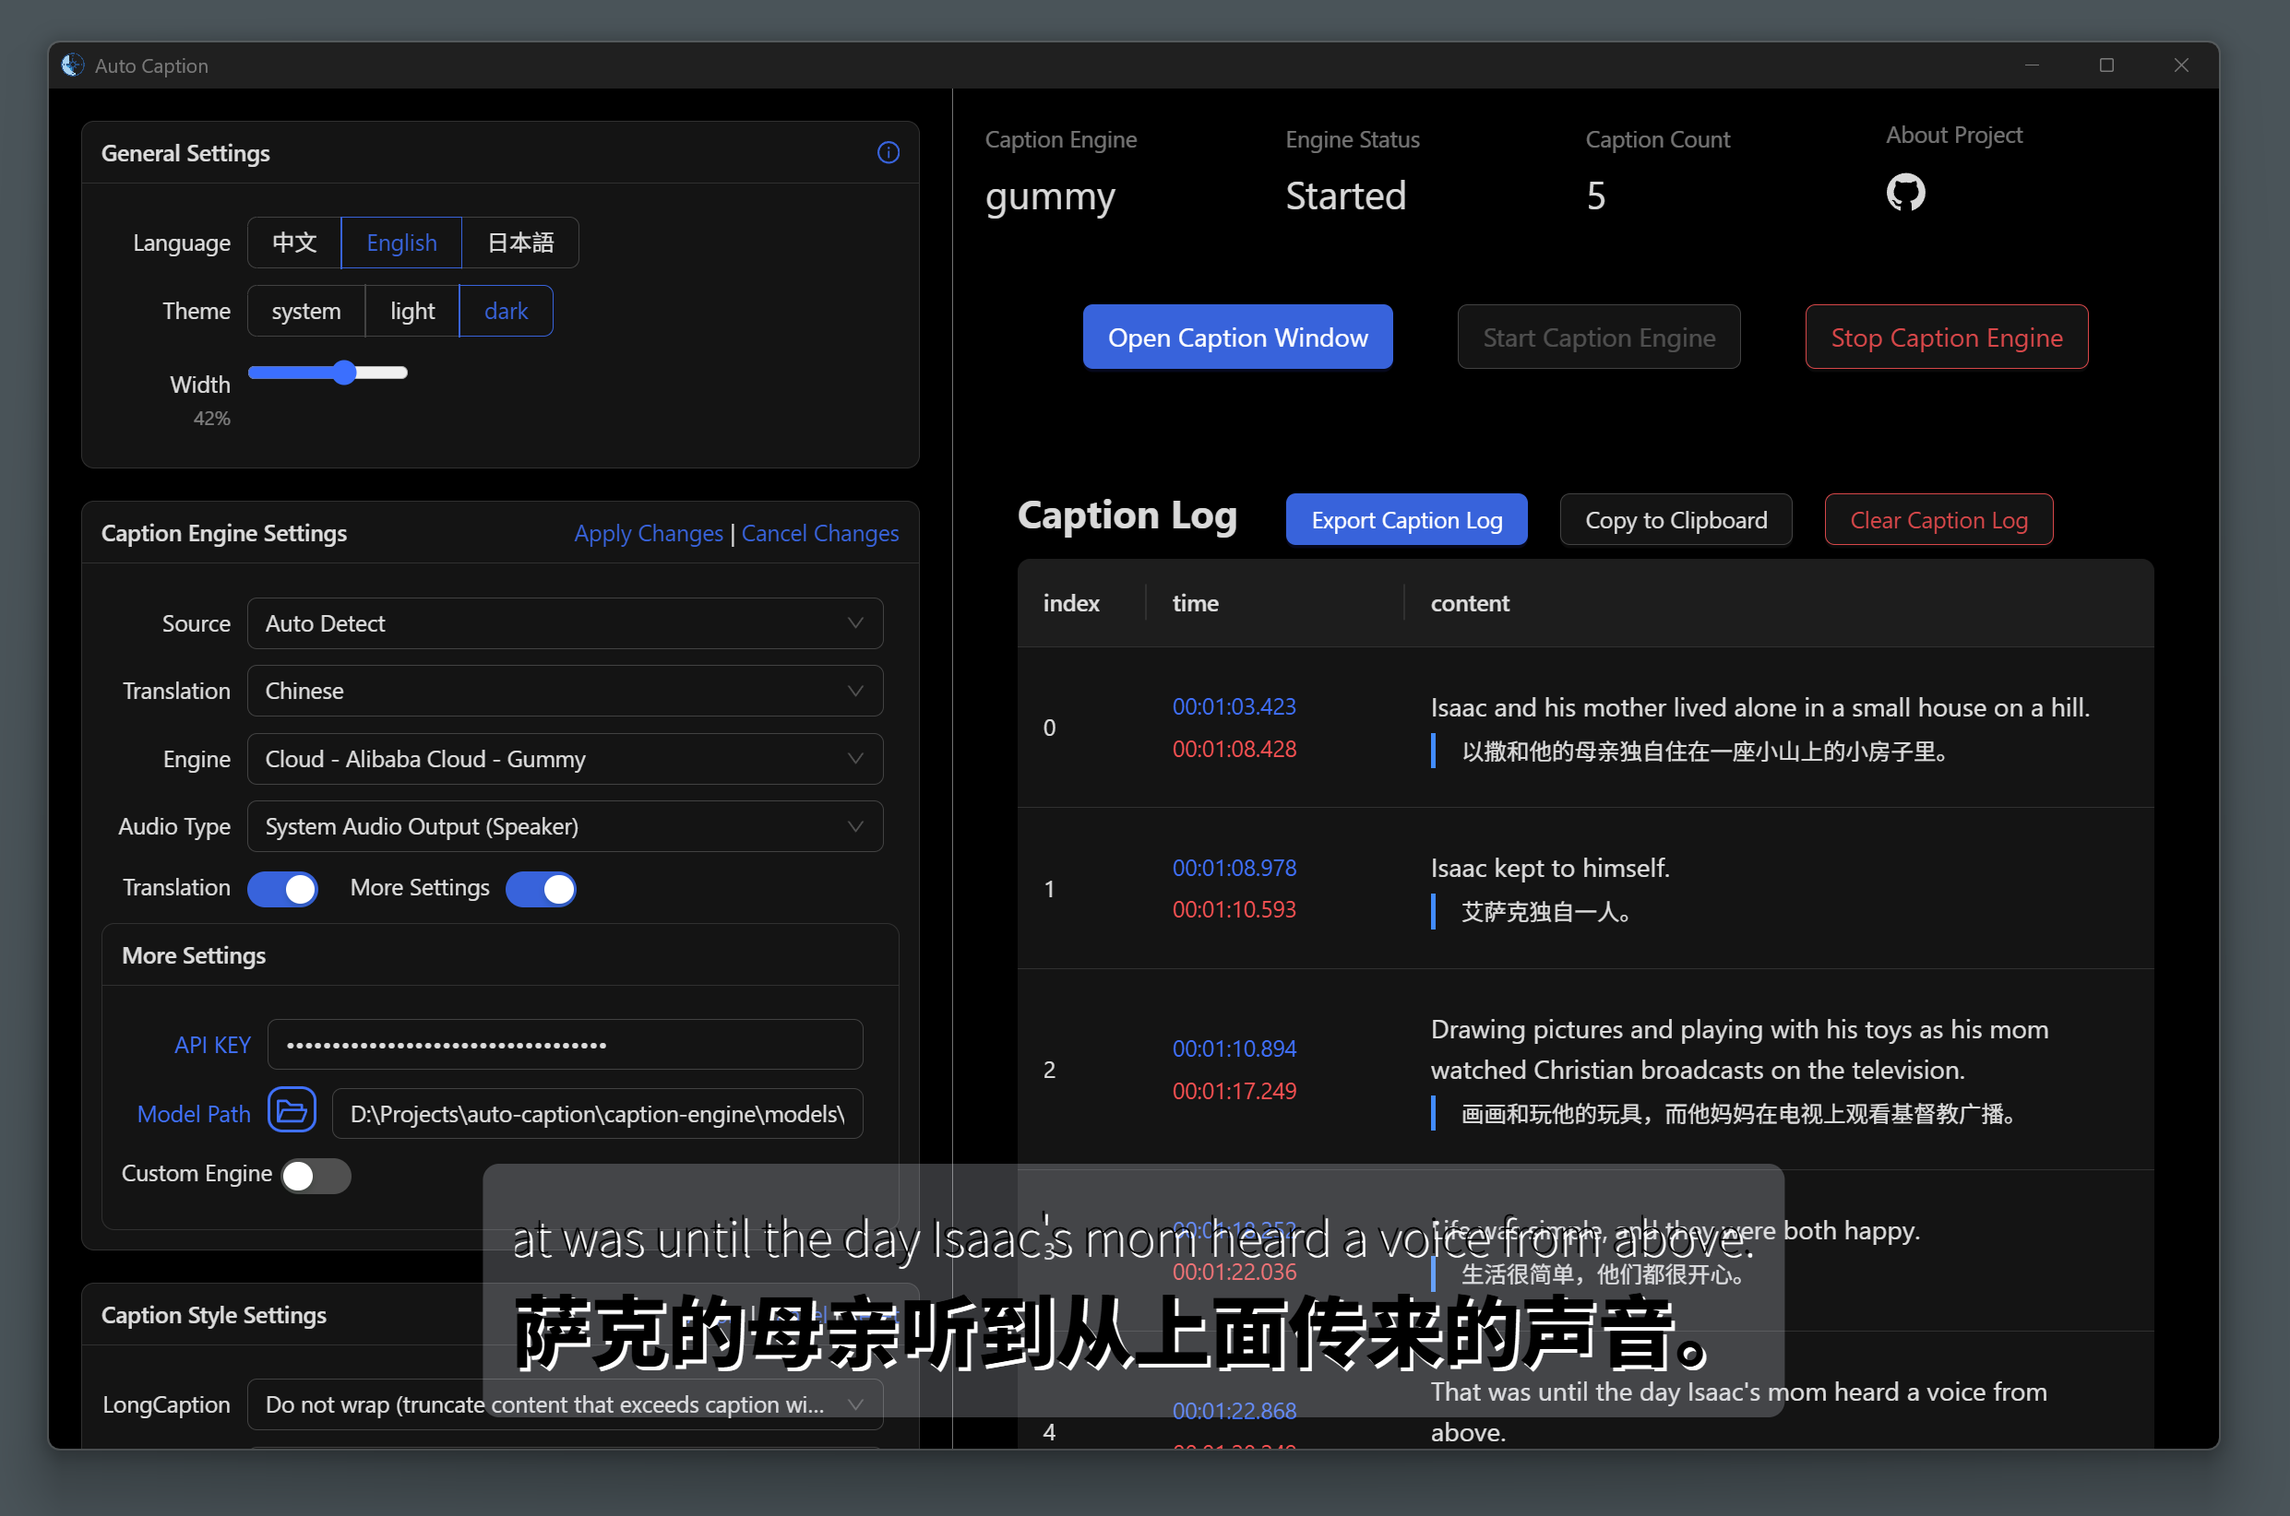
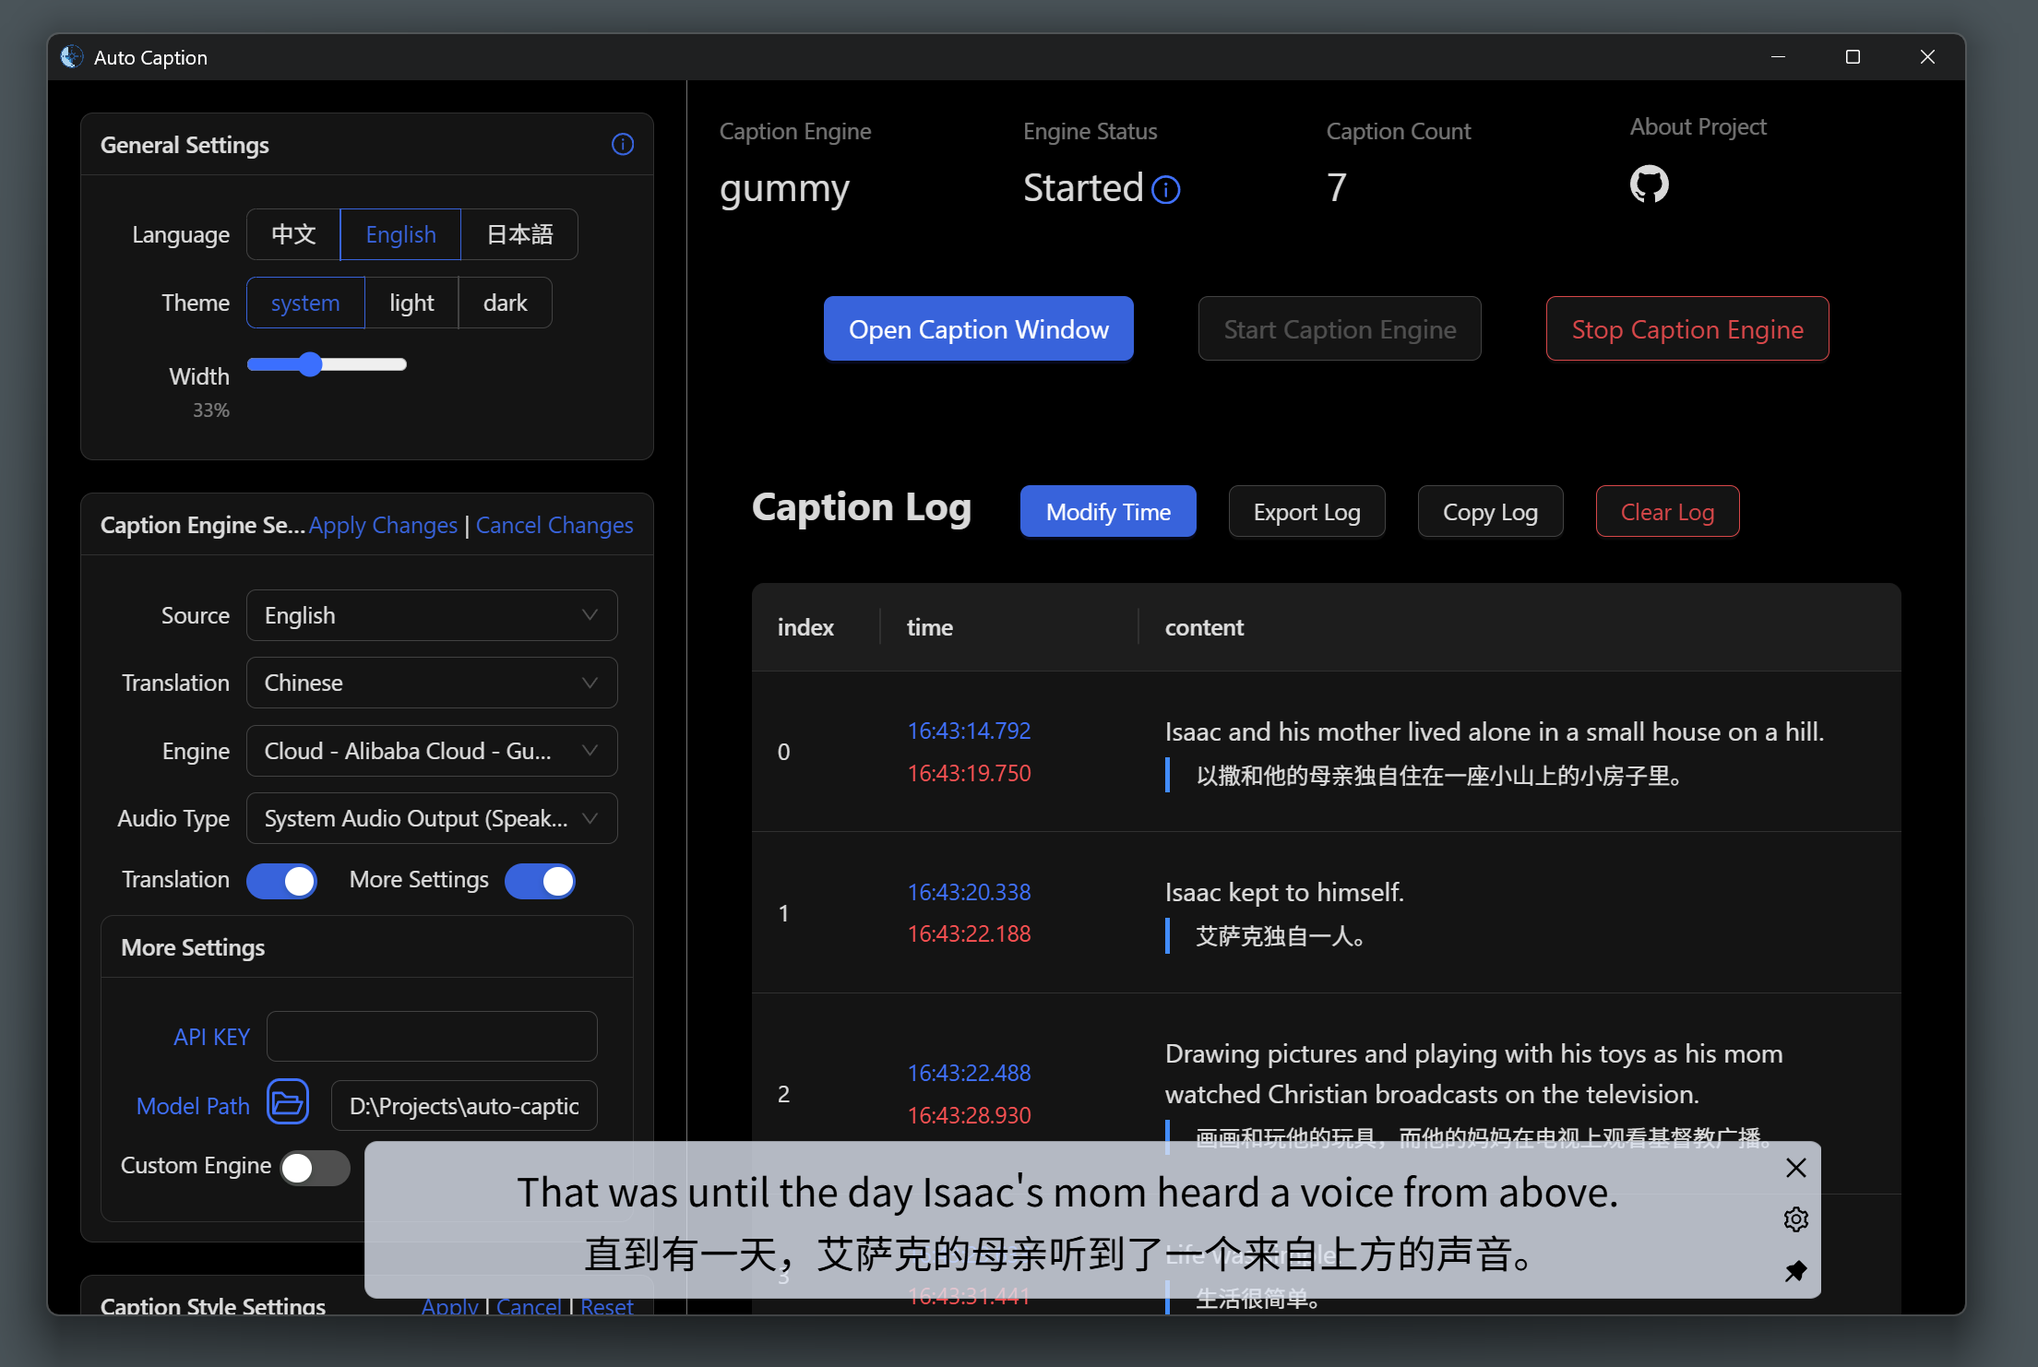
release v0.5.0
- 更新了发行说明和用户手册
- 优化了界面显示和功能
- 过滤 Gummy 字幕引擎输出的不完整字幕

diff --git a/src/renderer/src/components/EngineStatus.vue b/src/renderer/src/components/EngineStatus.vue
@@ -36,7 +36,11 @@
           <a-statistic
             :title="$t('status.status')"
             :value="engineEnabled?$t('status.started'):$t('status.stopped')"
-          />
+          >
+            <template #suffix v-if="engineEnabled">
+              <InfoCircleOutlined style="font-size:18px;color:#1677ff"/>
+            </template>
+          </a-statistic>
         </a-col>  
       </a-popover>      
       <a-col :span="6">
@@ -73,7 +77,7 @@
       <p class="about-desc">{{ $t('status.about.desc') }}</p>
       <a-divider />
       <div class="about-info">
-        <p><b>{{ $t('status.about.version') }}</b><a-tag color="green">v0.4.0</a-tag></p>
+        <p><b>{{ $t('status.about.version') }}</b><a-tag color="green">v0.5.0</a-tag></p>
         <p>
           <b>{{ $t('status.about.author') }}</b>
           <a
@@ -119,7 +123,7 @@ import { ref } from 'vue'
 import { storeToRefs } from 'pinia'
 import { useCaptionLogStore } from '@renderer/stores/captionLog'
 import { useEngineControlStore } from '@renderer/stores/engineControl'
-import { GithubOutlined } from '@ant-design/icons-vue';
+import { GithubOutlined, InfoCircleOutlined } from '@ant-design/icons-vue';
 
 const showAbout = ref(false)
 

diff --git a/src/renderer/src/components/EngineControl.vue b/src/renderer/src/components/EngineControl.vue
@@ -127,7 +127,7 @@ const { t } = useI18n()
 const showMore = ref(false)
 
 const engineControl = useEngineControlStore()
-const { platform, captionEngine, audioType, changeSignal } = storeToRefs(engineControl)
+const { captionEngine, audioType, changeSignal } = storeToRefs(engineControl)
 
 const currentSourceLang = ref('auto')
 const currentTargetLang = ref('zh')
@@ -230,7 +230,7 @@ watch(currentEngine, (val) => {
 }
 
 .input-folder>span {
-  padding: 0 4px;
+  padding: 0 2px;
   border: 2px solid #1677ff;
   color: #1677ff;
   border-radius: 30%;

diff --git a/src/main/utils/CaptionEngine.ts b/src/main/utils/CaptionEngine.ts
@@ -108,7 +108,10 @@ export class CaptionEngine {
         if (line.trim()) {
           try {
             const caption = JSON.parse(line);
-            allConfig.updateCaptionLog(caption);
+            if(caption.index === undefined) {
+              console.log('[INFO] Engine Bad Output:', caption);
+            }
+            else allConfig.updateCaptionLog(caption);
           } catch (e) {
             controlWindow.sendErrorMessage(i18n('engine.output.parse.error') + e)
             console.error('[ERROR] Error parsing JSON:', e);

diff --git a/src/renderer/src/i18n/lang/ja.ts b/src/renderer/src/i18n/lang/ja.ts
@@ -116,7 +116,7 @@ export default {
       "projLink": "プロジェクトリンク",
       "manual": "ユーザーマニュアル",
       "engineDoc": "字幕エンジンマニュアル",
-      "date": "2025 年 7 月 11 日"
+      "date": "2025 年 7 月 15 日"
     }
   },
   log: {

diff --git a/src/renderer/src/i18n/lang/zh.ts b/src/renderer/src/i18n/lang/zh.ts
@@ -116,7 +116,7 @@ export default {
       "projLink": "项目链接",
       "manual": "用户手册",
       "engineDoc": "字幕引擎手册",
-      "date": "2025 年 7 月 11 日"
+      "date": "2025 年 7 月 15 日"
     }
   },
   log: {

diff --git a/src/renderer/src/i18n/lang/en.ts b/src/renderer/src/i18n/lang/en.ts
@@ -116,7 +116,7 @@ export default {
       "projLink": "Project Link",
       "manual": "User Manual",
       "engineDoc": "Caption Engine Manual",
-      "date": "July 11, 2026"
+      "date": "July 15, 2025"
     }
   },
   log: {

diff --git a/src/renderer/src/stores/engineControl.ts b/src/renderer/src/stores/engineControl.ts
@@ -1,4 +1,4 @@
-import { ref, watch } from 'vue'
+import { ref } from 'vue'
 import { defineStore } from 'pinia'
 
 import { notification } from 'ant-design-vue'

diff --git a/docs/user-manual/en.md b/docs/user-manual/en.md
@@ -1,14 +1,21 @@
 # Auto Caption User Manual
 
-Corresponding Version: v0.4.0
+Corresponding Version: v0.5.0
 
 ## Software Introduction
 
 Auto Caption is a cross-platform caption display software that can real-time capture system audio input (recording) or output (playback) streaming data and use an audio-to-text model to generate captions for the corresponding audio. The default caption engine provided by the software (using Alibaba Cloud Gummy model) supports recognition and translation in nine languages (Chinese, English, Japanese, Korean, German, French, Russian, Spanish, Italian).
 
-Currently, the default caption engine of the software only has full functionality on Windows and macOS platforms. Additional configuration is required to capture system audio output on macOS.
+The default caption engine currently has full functionality on Windows, macOS, and Linux platforms. Additional configuration is required to capture system audio output on macOS.
 
-On Linux platforms, it can only generate captions for audio input (microphone), and currently does not support generating captions for audio output (playback).
+The following operating system versions have been tested and confirmed to work properly. The software cannot guarantee normal operation on untested OS versions.
+
+| OS Version         | Architecture | Audio Input Capture | Audio Output Capture |
+| ------------------ | ------------ | ------------------- | -------------------- |
+| Windows 11 24H2    | x64          | ✅                   | ✅                    |
+| macOS Sequoia 15.5 | arm64        | ✅ Additional config required  | ✅          |
+| Ubuntu 24.04.2     | x64          | ✅                   | ✅                    |
+| Kali Linux 2022.3  | x64          | ✅                   | ✅                    |
 
 ![](../../assets/media/main_en.png)
 
@@ -63,26 +70,26 @@ Now the caption engine can capture system audio output and generate captions.
 
 ## Getting System Audio Output on Linux
 
-Execute the following commands to install `pulseaudio` and `pavucontrol`:
-
-```bash
-# For Debian or Ubuntu, etc.
-sudo apt install pulseaudio pavucontrol
-# For CentOS, etc.
-sudo yum install pulseaudio pavucontrol
-```
-
-Then execute:
+First execute in the terminal:
 
 ```bash
 pactl list short sources
 ```
 
-If you see output similar to the following, the configuration was successful:
+If you see output similar to the following, no additional configuration is needed:
 
 ```bash
 220     alsa_output.pci-0000_02_02.0.3.analog-stereo.monitor    PipeWire        s16le 2ch 48000Hz       SUSPENDED
 221     alsa_input.pci-0000_02_02.0.3.analog-stereo     PipeWire        s16le 2ch 48000Hz       SUSPENDED
+```
+
+Otherwise, install `pulseaudio` and `pavucontrol` using the following commands:
+
+```bash
+# For Debian/Ubuntu etc.
+sudo apt install pulseaudio pavucontrol
+# For CentOS etc.
+sudo yum install pulseaudio pavucontrol
 ```
 
 ## Software Usage
@@ -103,7 +110,7 @@ The following image shows the caption display window, which displays the latest 
 
 ### Exporting Caption Records
 
-In the caption control window, you can see the records of all collected captions. Click the "Export Caption Records" button to export the caption records as a JSON file.
+In the caption control window, you can see the records of all collected captions. Click the "Export Log" button to export the caption records as a JSON or SRT file.
 
 ## Caption Engine
 

diff --git a/docs/user-manual/zh.md b/docs/user-manual/zh.md
@@ -1,14 +1,21 @@
 # Auto Caption 用户手册
 
-对应版本：v0.4.0
+对应版本：v0.5.0
 
 ## 软件简介
 
 Auto Caption 是一个跨平台的字幕显示软件，能够实时获取系统音频输入（录音）或输出（播放声音）的流式数据，并调用音频转文字的模型生成对应音频的字幕。软件提供的默认字幕引擎（使用阿里云 Gummy 模型）支持九种语言（中、英、日、韩、德、法、俄、西、意）的识别与翻译。
 
-目前软件默认字幕引擎只有在 Windows 和 macOS 平台下才拥有完整功能，在 macOS 要获取系统音频输出需要额外配置。
+目前软件默认字幕引擎在 Windows、 macOS 和 Linux 平台下均拥有完整功能，在 macOS 要获取系统音频输出需要额外配置。
 
-在 Linux 平台下只能生成音频输入（麦克风）的字幕，暂不支持音频输出（播放声音）的字幕生成。
+测试过可正常运行的操作系统信息如下，软件不能保证在非下列版本的操作系统上正常运行。
+
+| 操作系统版本        | 处理器架构 | 获取系统音频输入 | 获取系统音频输出 |
+| ------------------ | ---------- | ---------------- | ---------------- |
+| Windows 11 24H2    | x64        | ✅                | ✅                |
+| macOS Sequoia 15.5 | arm64      | ✅需要额外配置    | ✅                |
+| Ubuntu 24.04.2     | x64        | ✅    | ✅                |
+| Kali Linux 2022.3     | x64        | ✅    | ✅                |
 
 ![](../../assets/media/main_zh.png)
 
@@ -63,26 +70,26 @@ brew install blackhole-64ch
 
 ## Linux 获取系统音频输出
 
-执行以下命令安装 `pulseaudio` 和 `pavucontrol`：
+首先在控制台执行：
+
+```bash
+pactl list short sources
+```
+
+如果有以下类似的输出内容则无需额外配置：
+
+```bash
+220     alsa_output.pci-0000_02_02.0.3.analog-stereo.monitor    PipeWire        s16le 2ch 48000Hz       SUSPENDED
+221     alsa_input.pci-0000_02_02.0.3.analog-stereo     PipeWire        s16le 2ch 48000Hz       SUSPENDED
+```
+
+否则，执行以下命令安装 `pulseaudio` 和 `pavucontrol`：
 
 ```bash
 # Debian or Ubuntu, etc.
 sudo apt install pulseaudio pavucontrol
 # CentOS, etc.
 sudo yum install pulseaudio pavucontrol
-```
-
-然后执行：
-
-```bash
-pactl list short sources
-```
-
-如果有以下类似的输出内容则配置成功：
-
-```bash
-220     alsa_output.pci-0000_02_02.0.3.analog-stereo.monitor    PipeWire        s16le 2ch 48000Hz       SUSPENDED
-221     alsa_input.pci-0000_02_02.0.3.analog-stereo     PipeWire        s16le 2ch 48000Hz       SUSPENDED
 ```
 
 ## 软件使用
@@ -103,7 +110,7 @@ pactl list short sources
 
 ### 字幕记录的导出
 
-在字幕控制窗口中可以看到当前收集的所有字幕的记录，点击“导出字幕记录”按钮，即可将字幕记录导出为 JSON 文件。
+在字幕控制窗口中可以看到当前收集的所有字幕的记录，点击“导出字幕”按钮，即可将字幕记录导出为 JSON 或 SRT 文件。
 
 ## 字幕引擎
 

diff --git a/README_ja.md b/README_ja.md
@@ -4,7 +4,7 @@
     <p>Auto Caption はクロスプラットフォームのリアルタイム字幕表示ソフトウェアです。</p>
     <p>
       <a href="https://github.com/HiMeditator/auto-caption/releases">
-        <img src="https://img.shields.io/badge/release-0.4.0-blue">
+        <img src="https://img.shields.io/badge/release-0.5.0-blue">
       </a>
       <a href="https://github.com/HiMeditator/auto-caption/issues">
         <img src="https://img.shields.io/github/issues/HiMeditator/auto-caption?color=orange">
@@ -18,12 +18,10 @@
         | <a href="./README_en.md">English</a>
         | <b>日本語</b> |
     </p>
-    <p><i>Voskローカル字幕エンジンを含む v0.4.0 バージョンがリリースされました。<b>現在、ローカル字幕エンジンには翻訳機能が含まれておりません</b>。ローカル翻訳モジュールは現在も開発中です...</i></p>
+    <p><i>バージョン v0.5.0 がリリースされました。<b>現在の Vosk ローカル字幕エンジンは性能が低く、翻訳機能も含まれていません</b>。より優れた字幕エンジンを開発中です...</i></p>
 </div>
 
 ![](./assets/media/main_ja.png)
-
-![](./assets/media/main_mac_ja.png)
 
 ## 📥 ダウンロード
 
@@ -43,9 +41,10 @@
 
 | OS バージョン | アーキテクチャ | システムオーディオ入力 | システムオーディオ出力 |
 | ------------------ | ------------ | ------------------ | ------------------- |
-| Windows 11 24H2    | x64          | ✅                 | ✅                  |
-| macOS Sequoia 15.5 | arm64        | ✅ 追加設定が必要  | ✅                  |
-| Ubuntu 24.04.2     | x64          | ✅ 追加設定が必要  | ✅                  |
+| Windows 11 24H2    | x64          | ✅                 | ✅                   |
+| macOS Sequoia 15.5 | arm64        | ✅ 追加設定が必要    | ✅                   |
+| Ubuntu 24.04.2     | x64          | ✅                 | ✅                   |
+| Kali Linux 2022.3  | x64          | ✅                 | ✅                   |
 
 macOSおよびLinuxプラットフォームでシステムオーディオ出力を取得するには追加設定が必要です。詳細は[Auto Captionユーザーマニュアル](./docs/user-manual/ja.md)をご覧ください。
 

diff --git a/README_en.md b/README_en.md
@@ -4,7 +4,7 @@
     <p>Auto Caption is a cross-platform real-time caption display software.</p>
     <p>
       <a href="https://github.com/HiMeditator/auto-caption/releases">
-        <img src="https://img.shields.io/badge/release-0.4.0-blue">
+        <img src="https://img.shields.io/badge/release-0.5.0-blue">
       </a>
       <a href="https://github.com/HiMeditator/auto-caption/issues">
         <img src="https://img.shields.io/github/issues/HiMeditator/auto-caption?color=orange">
@@ -18,12 +18,10 @@
         | <b>English</b>
         | <a href="./README_ja.md">日本語</a> |
     </p>
-    <p><i>The v0.4.0 version with Vosk local caption engine has been released. <b>Currently the local caption engine does not include translation</b>, the local translation module is still under development...</i></p>
+    <p><i>Version v0.5.0 has been released. <b>The current Vosk local caption engine performs poorly and does not include translation</b>. A better caption engine is under development...</i></p>
 </div>
 
 ![](./assets/media/main_en.png)
-
-![](./assets/media/main_mac_en.png)
 
 ## 📥 Download
 
@@ -43,9 +41,10 @@ The software has been adapted for Windows, macOS, and Linux platforms. The teste
 
 | OS Version         | Architecture | System Audio Input | System Audio Output |
 | ------------------ | ------------ | ------------------ | ------------------- |
-| Windows 11 24H2    | x64          | ✅                 | ✅                  |
-| macOS Sequoia 15.5 | arm64        | ✅ Additional config required | ✅                  |
-| Ubuntu 24.04.2     | x64          | ✅ Additional config required | ✅                  |
+| Windows 11 24H2    | x64          | ✅                 | ✅                   |
+| macOS Sequoia 15.5 | arm64        | ✅ Additional config required | ✅        |
+| Ubuntu 24.04.2     | x64          | ✅                 | ✅                   |
+| Kali Linux 2022.3  | x64          | ✅                 | ✅                   |
 
 Additional configuration is required to capture system audio output on macOS and Linux platforms. See [Auto Caption User Manual](./docs/user-manual/en.md) for details.
 
